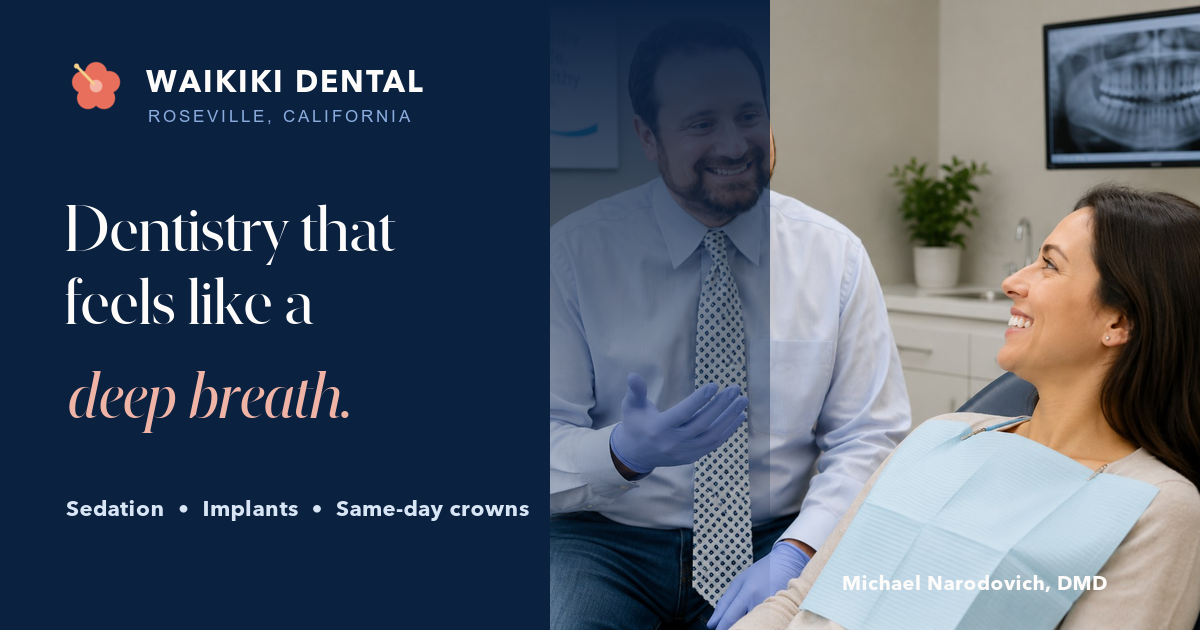
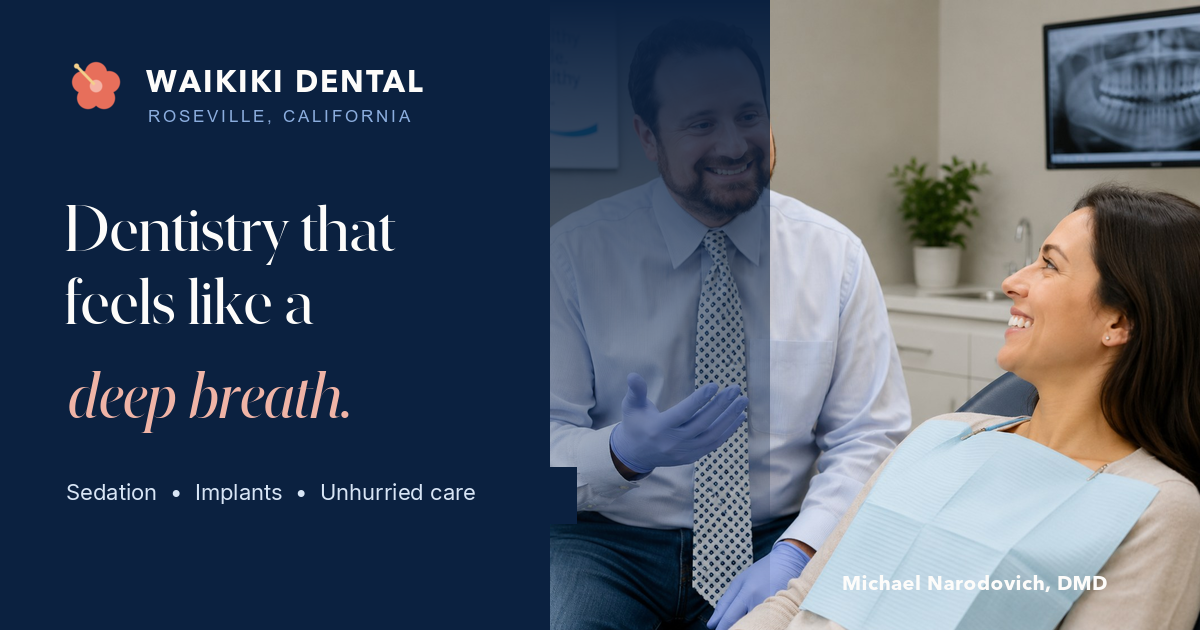
Unpublish CEREC same-day crowns from the public site.
Remove same-day/CEREC claims from home, nav, services, footer, SEO
copy, JSON-LD page metadata, and the social share image. Keep IV
sedation as the lead flagship. 301 the old crowns URL to the services
hub so the claim is not left live.

Changed region(s): [[0.0308, 0.7238, 0.4933, 0.8444]]

diff --git a/src/lib/site.ts b/src/lib/site.ts
@@ -1,7 +1,6 @@
 import {
   BadgeCheck,
   Building2,
-  CalendarCheck,
   CalendarClock,
   CalendarSearch,
   Clock3,
@@ -50,7 +49,7 @@ export const site = {
     "https://www.google.com/maps/search/?api=1&query=1271%20Pleasant%20Grove%20Blvd%20Suite%20100%20Roseville%20CA%2095747",
   baseUrl: resolveSiteUrl(),
   description:
-    "Roseville dentist Dr. Michael Narodovich offers IV sedation, dental implants, same-day crowns, and unhurried care for patients who want less dental anxiety.",
+    "Roseville dentist Dr. Michael Narodovich offers IV sedation, dental implants, and unhurried care for patients who want less dental anxiety.",
 };
 
 export const hours = [
@@ -82,7 +81,7 @@ export const doctor = {
   ],
 };
 
-/* Service categories — used to group the 14 services for scannability + SEO. */
+/* Service categories — used to group services for scannability + SEO. */
 export type ServiceCategoryKey =
   | "preventive"
   | "cosmetic"
@@ -109,7 +108,7 @@ export const serviceCategories: {
   {
     key: "restorative",
     label: "Restorative & Implants",
-    description: "Repair, rebuild, replace — often in a single visit.",
+    description: "Repair, rebuild, or replace a tooth with a plan built around you.",
   },
   {
     key: "orthodontics",
@@ -244,23 +243,6 @@ export const services: Service[] = [
     icon: WandSparkles,
   },
   {
-    title: "Same Day Crowns",
-    slug: "roseville-cerec-same-day-crowns",
-    eyebrow: "CEREC technology",
-    category: "restorative",
-    summary:
-      "A porcelain crown designed, milled, and placed before you leave — one visit, no temporaries.",
-    description:
-      "With CEREC, Dr. Narodovich scans your tooth digitally, designs the crown with CAD/CAM tools, and mills it from strong porcelain right in the Roseville office. You walk out with the finished crown the same day.",
-    highlights: [
-      "Digital scans, no goopy impressions",
-      "No temporary crown, no second visit",
-      "Milled in-office from strong porcelain",
-      "Built for strength and a natural look",
-    ],
-    icon: CalendarCheck,
-  },
-  {
     title: "Teeth Whitening",
     slug: "teeth-whitening",
     eyebrow: "Brighter, evenly",
@@ -385,7 +367,6 @@ export const services: Service[] = [
 export const featuredServiceSlugs = [
   "iv-sedation",
   "roseville-dental-implants",
-  "roseville-cerec-same-day-crowns",
 ] as const;
 
 export const featuredServices = featuredServiceSlugs
@@ -394,27 +375,8 @@ export const featuredServices = featuredServiceSlugs
 
 export const heroFacts = [
   "IV sedation for anxious patients",
-  "CEREC crowns in one visit",
+  "Dental implants and restorative care",
   "Now accepting new patients",
-];
-
-export const cerecProcess = [
-  {
-    title: "Scan",
-    body: "A digital scan of the tooth — no goopy impressions.",
-  },
-  {
-    title: "Design",
-    body: "The crown is designed in-office with CAD/CAM tools.",
-  },
-  {
-    title: "Mill",
-    body: "Porcelain is milled in the Roseville office the same day.",
-  },
-  {
-    title: "Place",
-    body: "You leave with the finished crown — no temporary, no second visit.",
-  },
 ];
 
 export const implantProcess = [
@@ -477,14 +439,12 @@ export type ReviewTheme =
   | "team"
   | "comfort"
   | "doctor"
-  | "same-day"
   | "sedation";
 
 export const reviewThemeLabels: Record<ReviewTheme, string> = {
   team: "The team",
   comfort: "Comfort",
   doctor: "Dr. Mike",
-  "same-day": "Same-day care",
   sedation: "Sedation",
 };
 
@@ -513,8 +473,8 @@ export const reviewExcerpts: ReviewExcerpt[] = [
     quote:
       "The service is great, the staff is knowledgeable and experienced, and their equipment is cutting edge.",
     name: "Greg R.",
-    context: "Same-day crown care",
-    themes: ["same-day", "team"],
+    context: "Patient experience",
+    themes: ["team"],
   },
   {
     quote:
@@ -554,8 +514,8 @@ export const reviewExcerpts: ReviewExcerpt[] = [
     quote:
       "I broke a tooth and they were able to fix it and crown the tooth in one day!",
     name: "Cindy T.",
-    context: "Same-day crown care",
-    themes: ["same-day"],
+    context: "Emergency visit",
+    themes: ["comfort"],
   },
   {
     quote:
@@ -577,7 +537,7 @@ export const navItems = [
 export const trustPoints = [
   "Now welcoming new patients",
   "Family, cosmetic, implant & sedation dentistry",
-  "CEREC crowns in a single visit",
+  "Implants and restorative dentistry",
   "Gentle with anxious patients",
 ];
 

diff --git a/src/components/page-templates.tsx b/src/components/page-templates.tsx
@@ -9,7 +9,6 @@ import {
   Star,
 } from "lucide-react";
 import {
-  cerecProcess,
   absoluteUrl,
   dentistJsonLd,
   doctor,
@@ -375,9 +374,6 @@ export function ServicePage({ service }: { service: Service }) {
   if (service.slug === "iv-sedation") {
     return <SedationServicePage service={service} />;
   }
-  if (service.slug === "roseville-cerec-same-day-crowns") {
-    return <ProcessServicePage service={service} steps={cerecProcess} />;
-  }
   if (service.slug === "roseville-dental-implants") {
     return <ProcessServicePage service={service} steps={implantProcess} />;
   }
@@ -395,7 +391,7 @@ export function ServicesHubPage() {
           <PageHeader
             eyebrow="Roseville dental care"
             title="One office for every stage of your smile."
-            body="Preventive cleanings, cosmetic refinements, implants, orthodontics, CEREC same-day crowns, and IV sedation — a complete menu, delivered at a calmer pace."
+            body="Preventive cleanings, cosmetic refinements, implants, orthodontics, and IV sedation — a complete menu, delivered at a calmer pace."
           />
         </div>
       </section>
@@ -879,7 +875,7 @@ export function TestimonialsPage() {
             <SectionHeader
               eyebrow="In patients' own words"
               title="Find the experience that matters to you."
-              body="Use the filters to explore short, verified excerpts about comfort, the team, Dr. Mike, sedation, and same-day care."
+              body="Use the filters to explore short, verified excerpts about comfort, the team, Dr. Mike, and sedation."
             />
             <div className="rounded-2xl border border-line bg-cream p-5 text-sm leading-6 text-ink-muted lg:justify-self-end lg:max-w-md">
               Excerpts are shortened for readability and attributed with reviewer initials.

diff --git a/src/app/[slug]/page.tsx b/src/app/[slug]/page.tsx
@@ -37,7 +37,7 @@ const staticPages: Record<
   "roseville-dental-care": {
     title: "Dental Services in Roseville, CA",
     description:
-      "Explore Waikiki Dental's full menu of Roseville dental care: cleanings, cosmetic dentistry, Invisalign, implants, CEREC same-day crowns, and IV sedation.",
+      "Explore Waikiki Dental's full menu of Roseville dental care: cleanings, cosmetic dentistry, Invisalign, implants, and IV sedation.",
   },
   "waikiki-dental-roseville": {
     title: "Our Roseville Dental Office",
@@ -104,11 +104,6 @@ const serviceMetadata: Record<string, { title: string; description: string }> = 
     title: "Dental X-Rays in Roseville, CA",
     description:
       "Digital dental X-rays in Roseville help identify decay, root concerns, and bone changes that a visual exam cannot show. Learn what to expect.",
-  },
-  "roseville-cerec-same-day-crowns": {
-    title: "CEREC Same-Day Crowns in Roseville, CA",
-    description:
-      "Restore a damaged tooth with a CEREC porcelain crown designed, milled, and placed at Waikiki Dental in one Roseville visit when appropriate.",
   },
   "teeth-whitening": {
     title: "Professional Teeth Whitening in Roseville, CA",

diff --git a/next.config.ts b/next.config.ts
@@ -29,6 +29,11 @@ const nextConfig: NextConfig = {
       // /request-appointment/ itself is not redirected. Query strings pass through.
       { source: "/request-appointment/:path+", destination: "/request-appointment/", permanent: true },
       { source: "/request-appointment/:path+/", destination: "/request-appointment/", permanent: true },
+      {
+        source: "/roseville-cerec-same-day-crowns/",
+        destination: "/roseville-dental-care/",
+        permanent: true,
+      },
       { source: "/dental-implants/", destination: "/roseville-dental-implants/", permanent: true },
       { source: "/invisalign/", destination: "/roseville-invisalign/", permanent: true },
       { source: "/meet-our-doctors/", destination: "/michael-narodovich-dmd/", permanent: true },

diff --git a/src/lib/next-config-redirects.test.ts b/src/lib/next-config-redirects.test.ts
@@ -43,6 +43,17 @@ describe("next.config redirects", () => {
     );
   });
 
+  it("301s the unpublished CEREC page to the services hub", async () => {
+    const redirects = await nextConfig.redirects!();
+    const cerec = redirects.find(
+      (rule) => rule.source === "/roseville-cerec-same-day-crowns/",
+    );
+    assert.deepEqual(
+      { destination: cerec?.destination, permanent: cerec?.permanent },
+      { destination: "/roseville-dental-care/", permanent: true },
+    );
+  });
+
   it("keeps the /appointments/ alias pointed at the form", async () => {
     const redirects = await nextConfig.redirects!();
     const alias = redirects.find((rule) => rule.source === "/appointments/");

diff --git a/src/app/page.tsx b/src/app/page.tsx
@@ -50,8 +50,8 @@ export default function Home() {
             </h1>
             <p className="mt-7 max-w-xl text-pretty text-lg leading-8 text-ink-muted">
               Dr. Michael Narodovich built this practice for people who have put
-              care off — monitored IV sedation, implants, and same-day crowns,
-              delivered without rush or judgment.
+              care off — monitored IV sedation and dental implants, delivered
+              without rush or judgment.
             </p>
             <div className="mt-9 hidden flex-wrap items-center gap-3 lg:flex">
               <Link href={scheduleHref} className="btn btn-sunset">

diff --git a/src/components/site-chrome.tsx b/src/components/site-chrome.tsx
@@ -68,8 +68,8 @@ export function SiteFooter() {
             </span>
           </Link>
           <p className="mt-5 max-w-md text-sm leading-7 text-cream/70">
-            IV sedation, implants, same-day crowns, and unhurried family care
-            from Dr. Michael Narodovich in Roseville.
+            IV sedation, dental implants, and unhurried family care from
+            Dr. Michael Narodovich in Roseville.
           </p>
           <div className="mt-6 flex flex-wrap gap-3">
             <Link href={scheduleHref} className="btn btn-sunset btn-sm">

diff --git a/src/components/sections.tsx b/src/components/sections.tsx
@@ -224,7 +224,7 @@ export function FlagshipServices() {
       <div className="wrap">
         <SectionHeader
           eyebrow="The work we are known for"
-          title="Sedation, implants, and same-day crowns."
+          title="IV sedation and dental implants."
           body="Higher-stakes care, delivered at a calmer pace — with the rest of the menu under one roof."
         />
         <Link
